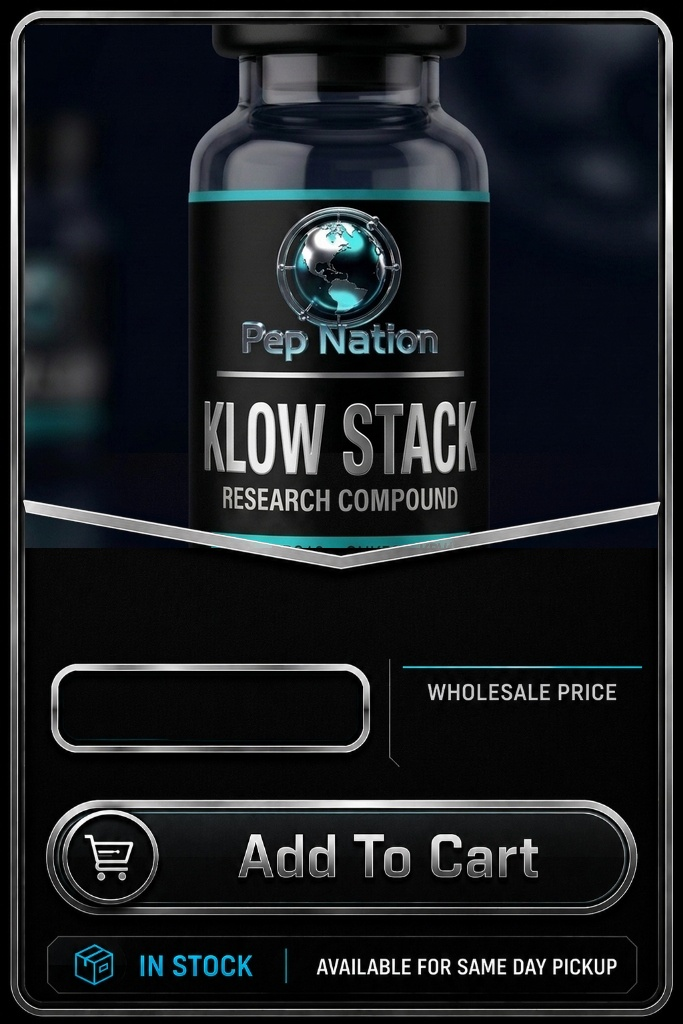
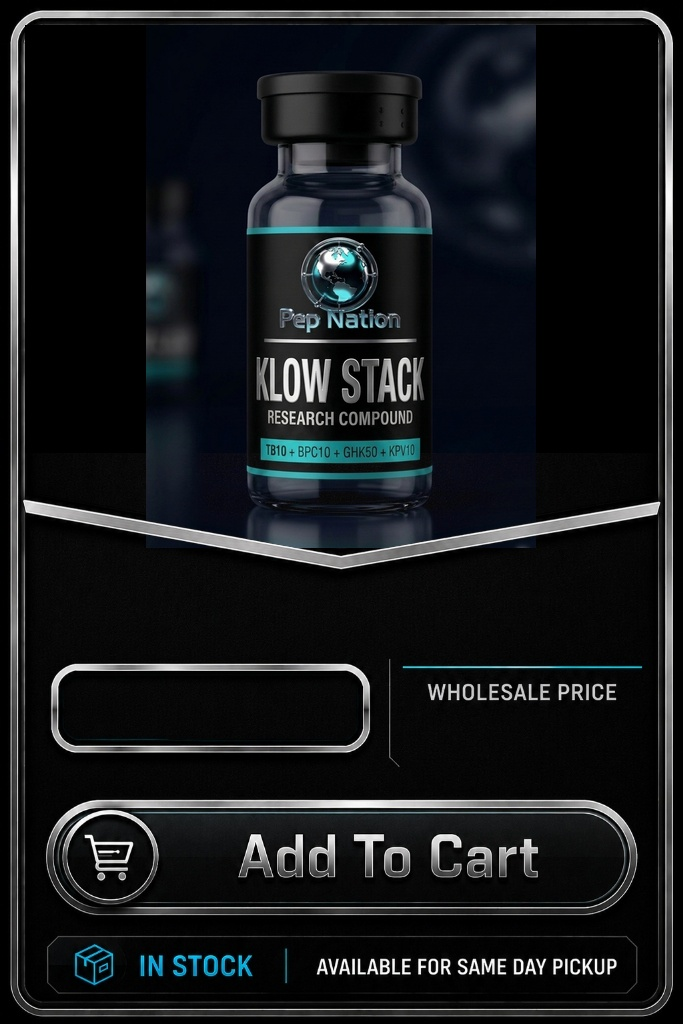
fix: KLOW STACK MSRP + image + catalog API market_avg_price
- Add market_avg_price and low_stock_threshold to storefront catalog API
  query (was missing, causing no MSRP/YOU SAVE display for KLOW + others)
- Set KLOW STACK market_avg_price to $124.97 (shows MSRP $124.97/YOU SAVE $25)
- Replace klow-card.jpg with klow-stack-card.jpg (correct vial properly
  positioned inside V-metallic frame; old card had oversized distorted vial)

Changed region(s): [[0.2152, 0.0, 0.9839, 0.5625], [0.0307, 0.0938, 0.1845, 0.5625]]

diff --git a/app/api/storefront/catalog/[agentSlug]/route.ts b/app/api/storefront/catalog/[agentSlug]/route.ts
@@ -108,11 +108,13 @@ async function buildCatalogPayload(agentSlug: string): Promise<CatalogResult> {
           image_url,
           category,
           inventory_count,
+          low_stock_threshold,
           backorder_days,
           unit_size,
           unit_measure,
           weight_oz,
-          compound_slug
+          compound_slug,
+          market_avg_price
         )
       `)
       .eq('agent_id', agent.id)
